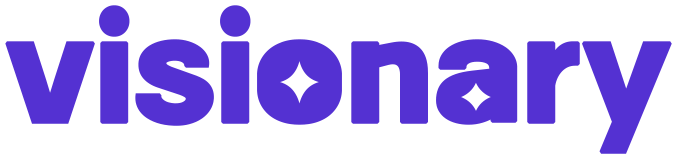
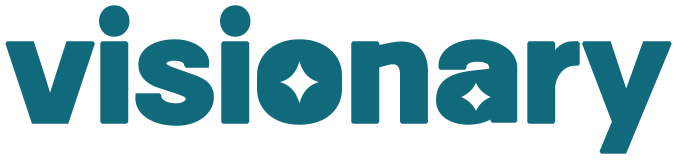
[design] 테마색 반영

diff --git a/src/components/VisionBoardGrid/VisionGrid.module.scss b/src/components/VisionBoardGrid/VisionGrid.module.scss
@@ -1,3 +1,11 @@
+@font-face {
+  font-family: 'KBO-Dia-Gothic_bold';
+  src: url('https://cdn.jsdelivr.net/gh/projectnoonnu/noonfonts_2304-2@1.0/KBO-Dia-Gothic_bold.woff')
+    format('woff');
+  font-weight: 700;
+  font-style: normal;
+}
+
 .container {
   position: absolute;
   top: 50%;
@@ -5,13 +13,16 @@
   transform: translate(-50%, -50%);
   width: 750px;
   height: 750px;
-  border: 3px solid red;
+  border: 1px solid lightgray;
+  border-radius: 20px;
+  backdrop-filter: blur(15px);
   display: flex;
   flex-direction: column;
   justify-content: center;
   align-items: center;
 
   .gridContainer {
+    position: relative;
     width: 660px;
     height: 660px;
     display: grid;
@@ -20,7 +31,6 @@
     grid-gap: 10px;
 
     .gridItem {
-      color: blue;
       border: 1px solid black;
       font-size: 20px;
       display: flex;
@@ -46,22 +56,34 @@
       }
 
       img {
-        max-width: 210px;
-        max-height: 210px;
+        position: absolute;
+        top: 0;
+        bottom: 0;
+        left: 0;
+        right: 0;
+        width: 100%;
+        height: 100%;
+        object-fit: cover;
+        border-radius: 20px;
         transition: transform 0.5s;
         backface-visibility: hidden;
       }
 
       .gridItemText {
+        font-family: 'KBO-Dia-Gothic_bold';
+        color: #116a7b;
         position: absolute;
         z-index: -1;
         opacity: 0;
+        padding: 10px;
+        border: 2px solid #116a7b;
+        border-radius: 20px;
         transform: rotateY(180deg);
         backface-visibility: hidden;
         display: flex;
         justify-content: center;
         align-items: center;
-        text-align: center;
+        text-align: justify;
         transition: transform 0.5s;
       }
 
@@ -78,8 +100,10 @@
     }
 
     .gridBoardName {
+      color: #116a7b;
+      font-family: 'KBO-Dia-Gothic_bold';
       text-align: center;
-      font-size: 20px;
+      font-size: 40px;
       display: flex;
       justify-content: center;
       align-items: center;
@@ -97,40 +121,82 @@
   }
 
   .btnContainer {
-    width: auto;
+    width: 660px;
     height: auto;
     display: flex;
-    justify-content: center;
+    justify-content: space-between;
     align-items: center;
 
-    .deleteBtn {
-      width: 100px;
-      font-size: 20px;
-      margin-top: 20px;
-      border: 1px solid red;
-    }
-
-    .prevBtn {
-      width: 100px;
-      font-size: 20px;
-      margin-left: 20px;
-      margin-top: 20px;
-      border: 1px solid red;
-    }
-
+    .deleteBtn,
+    .prevBtn,
     .completeBtn {
-      width: 100px;
+      width: 130px;
       font-size: 20px;
-      margin-left: 20px;
       margin-top: 20px;
-      border: 1px solid red;
     }
 
     .selectBtn {
-      width: 100px;
+      width: 130px;
       font-size: 20px;
-      margin-left: 20px;
       margin-top: 20px;
+    }
+
+    // 버튼 애니메이션
+
+    .deleteBtn,
+    .prevBtn,
+    .completeBtn {
+      background: #116a7b;
+      color: #fff;
+      border: none;
+      height: 40px;
+      cursor: pointer;
+      transition: 400ms ease all;
+      outline: none;
+      position: relative;
+      border-radius: 10px;
+    }
+
+    .deleteBtn:hover,
+    .prevBtn:hover,
+    .completeBtn:hover {
+      background: #fff;
+      color: #116a7b;
+    }
+
+    .deleteBtn:before,
+    .deleteBtn:after,
+    .prevBtn:before,
+    .prevBtn:after,
+    .completeBtn:before,
+    .completeBtn:after {
+      content: '';
+      position: absolute;
+      top: 0;
+      right: 0;
+      height: 2px;
+      width: 0;
+      background: #116a7b;
+      transition: 400ms ease all;
+    }
+
+    .deleteBtn:after,
+    .prevBtn:after,
+    .completeBtn:after {
+      right: inherit;
+      top: inherit;
+      left: 0;
+      bottom: 0;
+    }
+
+    .deleteBtn:hover:before,
+    .deleteBtn:hover:after,
+    .prevBtn:hover:before,
+    .prevBtn:hover:after,
+    .completeBtn:hover:before,
+    .completeBtn:hover:after {
+      width: 100%;
+      transition: 300ms ease all;
     }
   }
 }

diff --git a/src/components/Header/Header.module.scss b/src/components/Header/Header.module.scss
@@ -36,7 +36,7 @@
   width: 100%;
 
   list-style: none;
-  background-color: rgb(190, 190, 190);
+  background-color: #ece5c7;
   padding: 5px 0;
 
   li {
